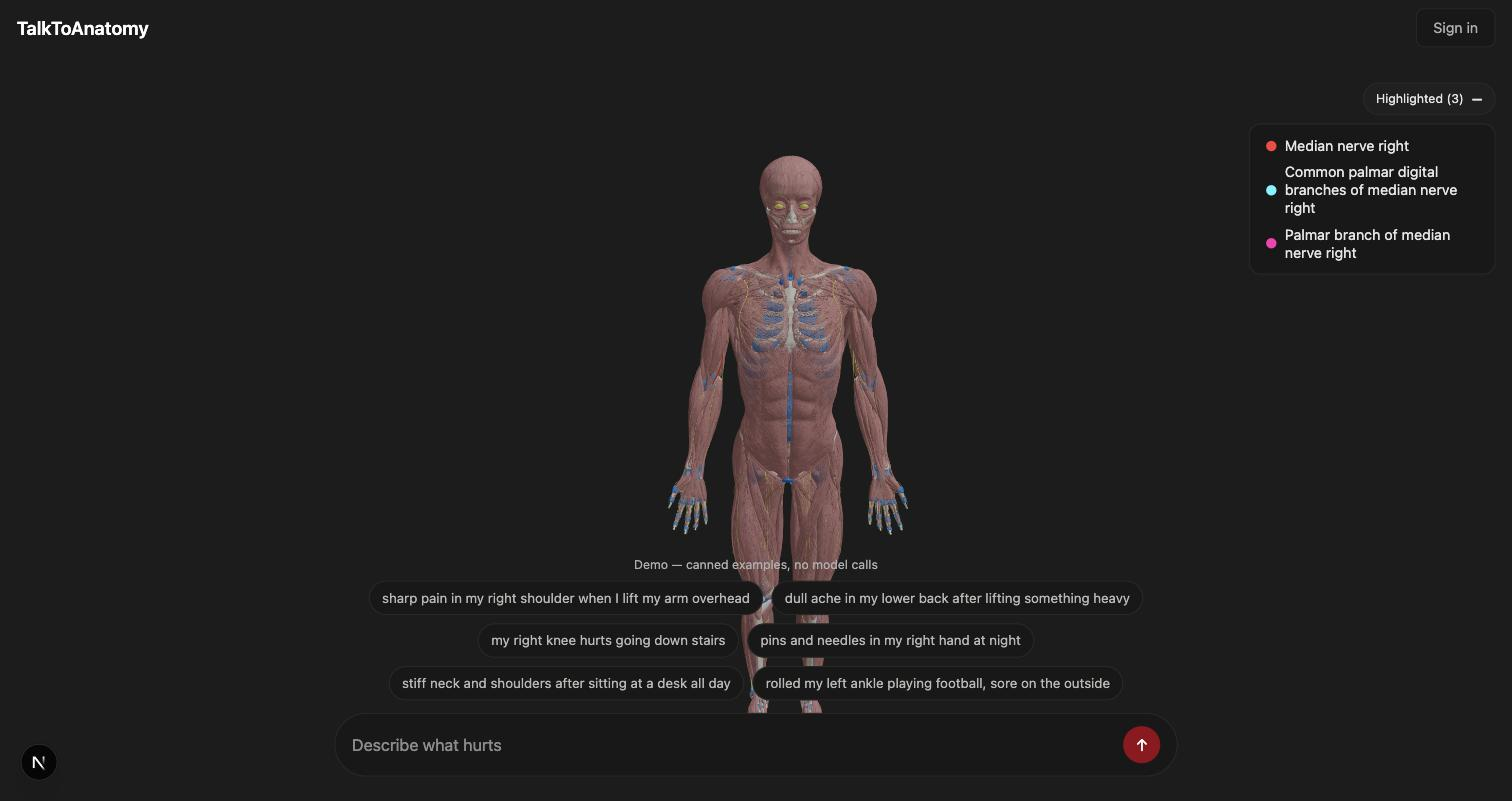
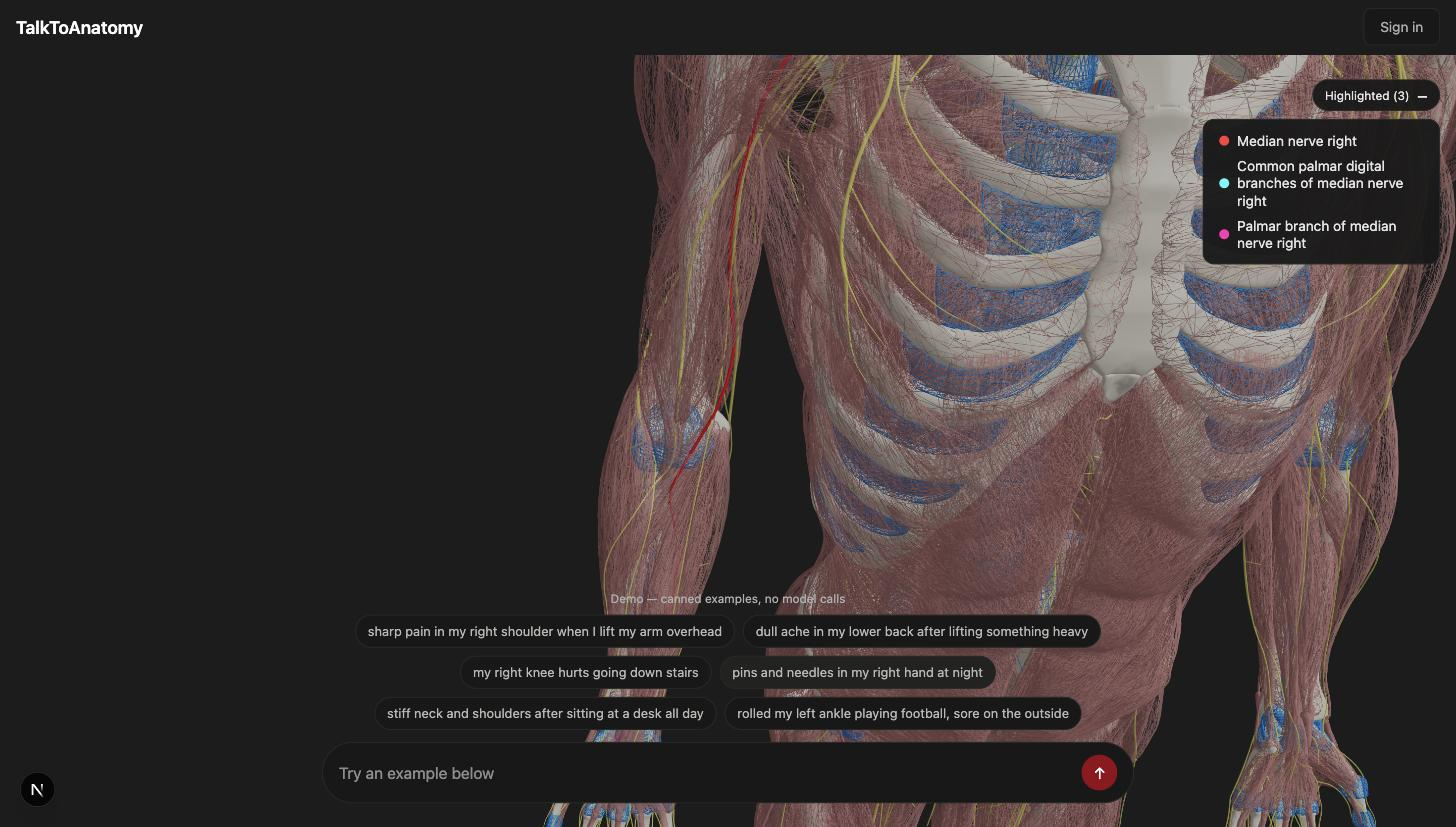
Replace the screenshots with ones you can actually read
The previous shots were full-body at default zoom, where a highlighted
structure is a few green pixels. These are framed on the region, with
the legend open so the colours map to names.

Claude-Session: https://claude.ai/code/session_01MsGsbs54u4UhCne9jAcAVy

diff --git a/README.md b/README.md
@@ -20,7 +20,7 @@ language in, a specific named structure out, shown in place.
 | | |
 |---|---|
 | ![Shoulder](docs/img/shoulder.jpg) | ![Median nerve](docs/img/median-nerve.jpg) |
-| *"sharp pain in my right shoulder when I lift my arm overhead"* → supraspinatus, with the subacromial bursa and rotator cuff as alternatives | *"pins and needles in my right hand at night"* → median nerve and its palmar branches |
+| *"sharp pain in my right shoulder when I lift my arm overhead"* → **supraspinatus** in red, deltoid in green, with the subacromial bursa, infraspinatus and teres minor as alternatives | *"pins and needles in my right hand at night"* → the **median nerve** traced down the arm in red, with its palmar branches |
 
 ---
 
